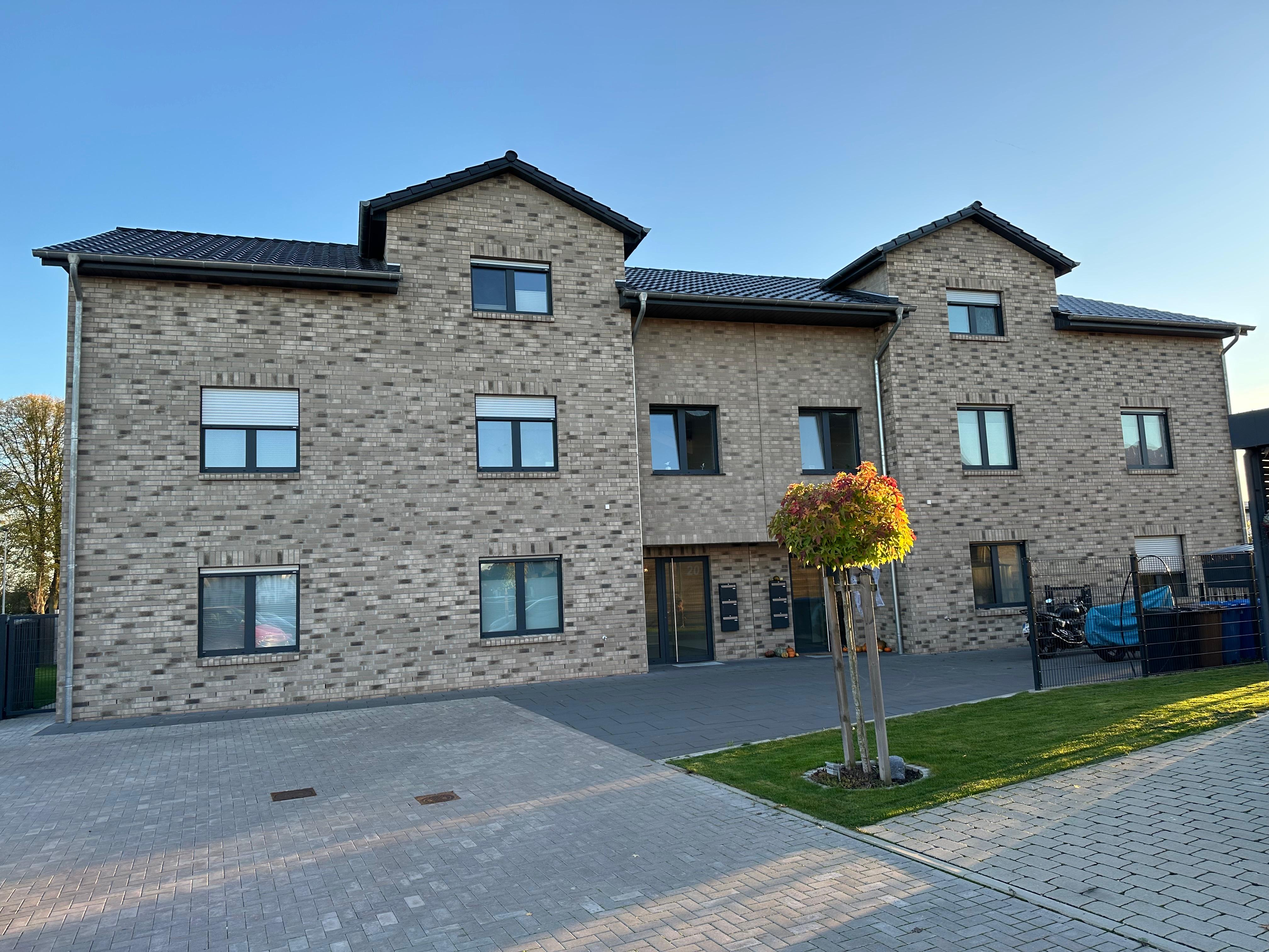
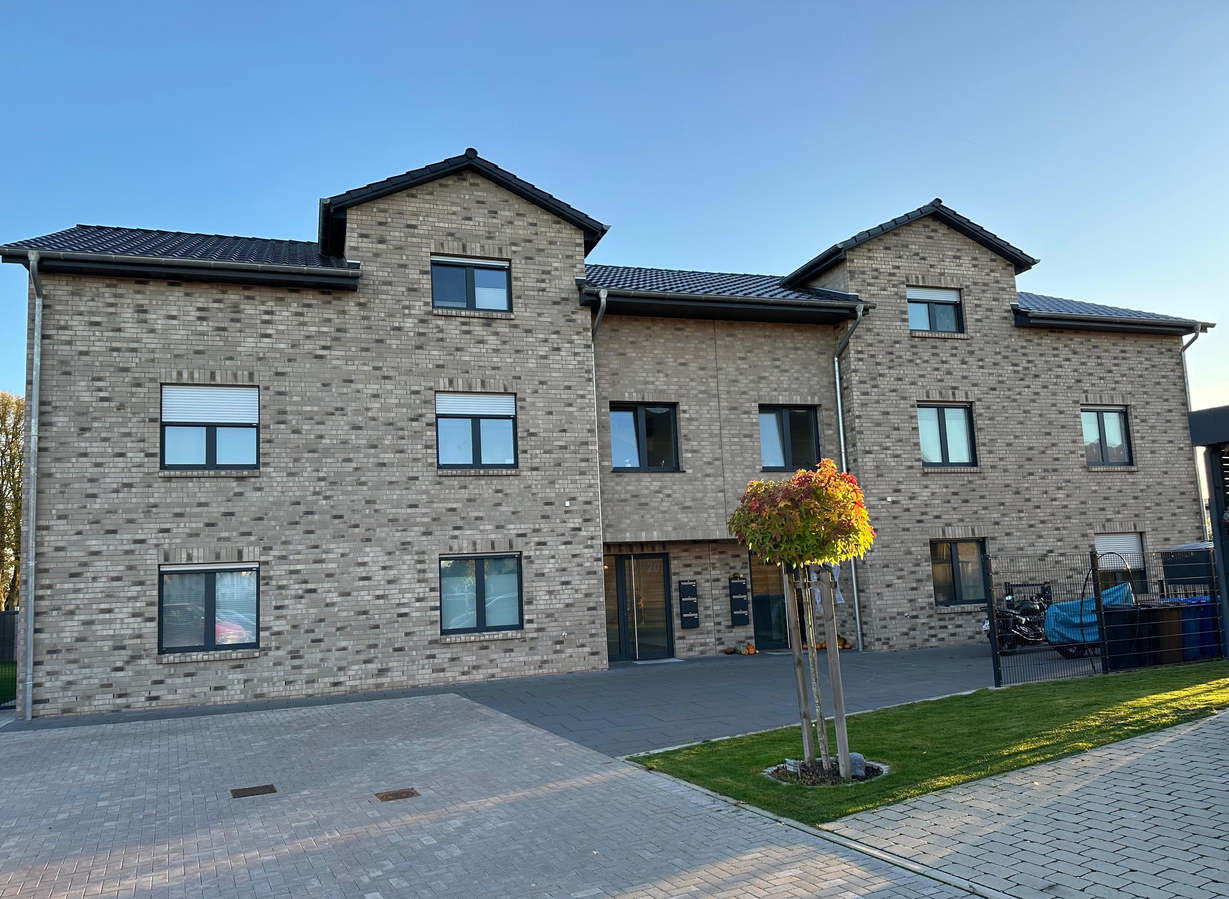
Intro Bild in mobiler Ansicht verschoben

diff --git a/src/App.css b/src/App.css
@@ -1,4 +1,5 @@
 @media screen and (max-width: 560px) {
+
   #about,
   #services,
   #portfolio,
@@ -10,7 +11,9 @@
     padding: 50px 20px;
     text-align: center;
   }
-
+ .intro {
+    background-position: calc(50% - 60px) center;
+  }
   #contact .address-separator {
     width: 100%;
     height: 1px;
@@ -19,9 +22,12 @@
     margin: 15px 0 20px;
     display: block;
   }
+
   #contact .contact-info .contact-item {
-    margin-bottom: 30px !important; /* Abstand nach jedem Kontakt-Item */
+    margin-bottom: 30px !important;
+    /* Abstand nach jedem Kontakt-Item */
   }
+
   #contact .contact-info a {
     text-decoration: underline !important;
     color: rgba(255, 255, 255, 0.75) !important;
